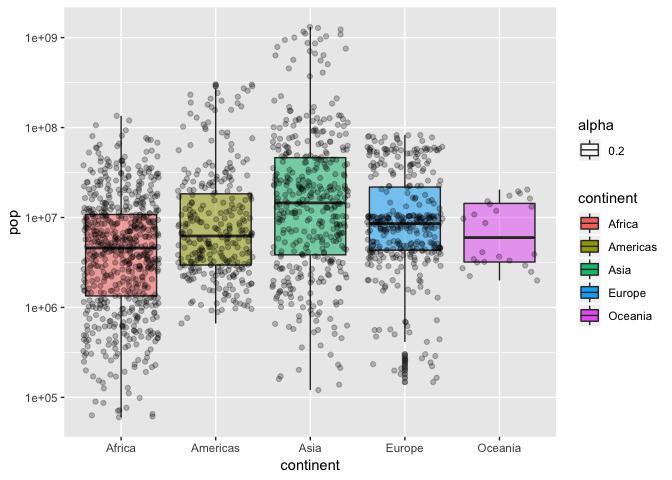
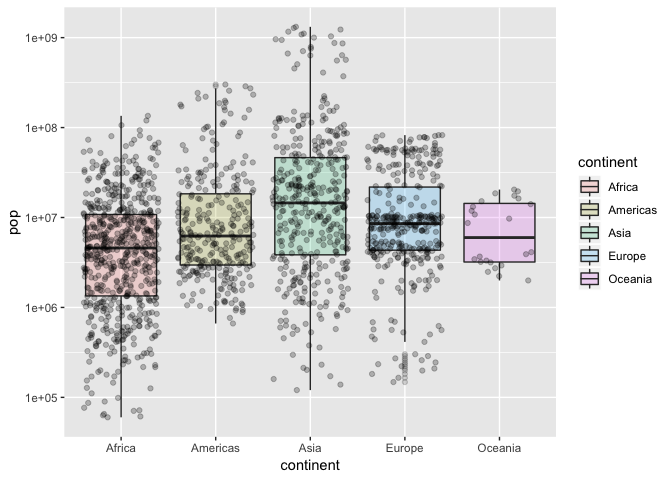
fix transparency

diff --git a/hw02_gapminder.md b/hw02_gapminder.md
@@ -8,14 +8,14 @@ library(gapminder)
 library(tidyverse)
 ```
 
-    ## ── Attaching packages ──────────────────────── tidyverse 1.2.1 ──
+    ## ── Attaching packages ─────────────────────────────────────── tidyverse 1.2.1 ──
 
     ## ✔ ggplot2 3.0.0     ✔ purrr   0.2.5
     ## ✔ tibble  1.4.2     ✔ dplyr   0.7.6
     ## ✔ tidyr   0.8.1     ✔ stringr 1.3.1
     ## ✔ readr   1.1.1     ✔ forcats 0.3.0
 
-    ## ── Conflicts ─────────────────────────── tidyverse_conflicts() ──
+    ## ── Conflicts ────────────────────────────────────────── tidyverse_conflicts() ──
     ## ✖ dplyr::filter() masks stats::filter()
     ## ✖ dplyr::lag()    masks stats::lag()
 
@@ -295,7 +295,7 @@ gapminder %>%
   select(continent, pop) %>% 
   ggplot(aes(continent, pop)) + 
   scale_y_log10() +
-  geom_boxplot(aes(fill = continent, alpha = 0.2)) + 
+  geom_boxplot(aes(fill = continent), alpha = 0.2) + 
   geom_jitter(alpha = 0.25)
 ```
 
@@ -310,7 +310,7 @@ gapminder %>%
   filter(continent == 'Europe' | continent == 'Americas') %>% 
   ggplot(aes(continent, pop)) + 
   scale_y_log10() +
-  geom_boxplot(aes(fill = continent, alpha = 0.2)) + 
+  geom_boxplot(aes(fill = continent), alpha = 0.2) + 
   geom_jitter(alpha = 0.25)
 ```
 
